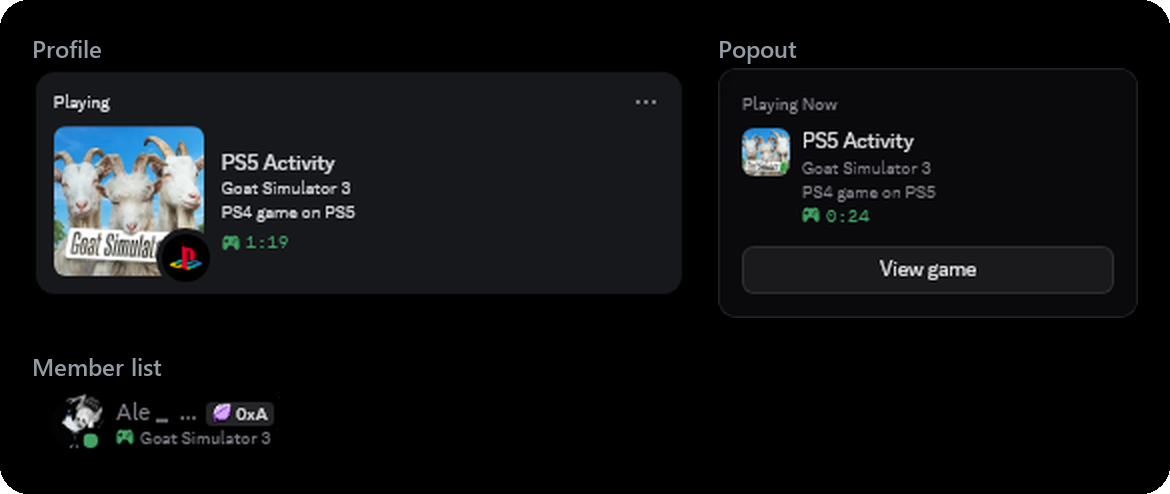
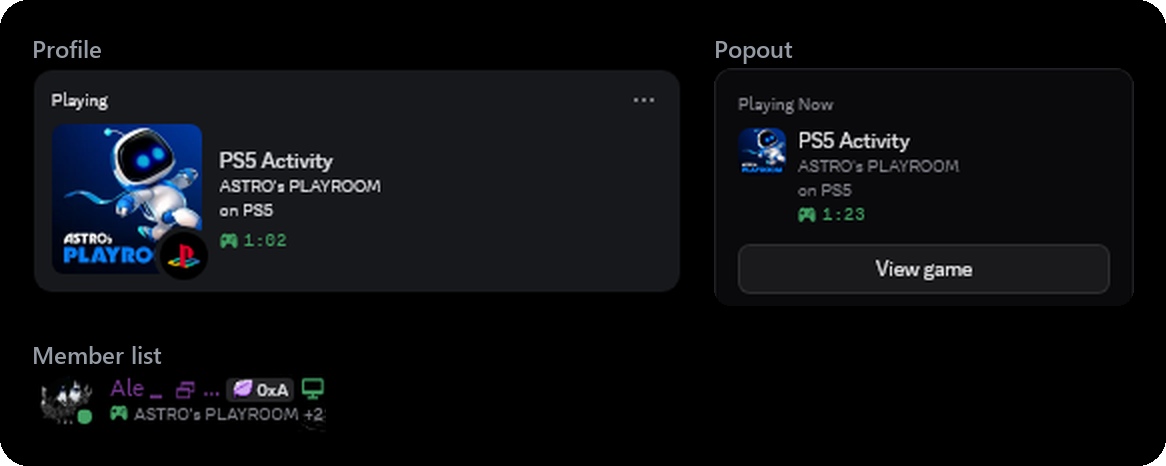
README: show a PS5 game in the Discord screenshots

diff --git a/README.md b/README.md
@@ -16,7 +16,7 @@ to ps5debug-NG (port 744) if the RPC isn't enabled. No etaHEN? The small
 
 On Discord it looks like this:
 
-<p align="center"><img src="assets/discord.png" width="585" alt="Discord showing Goat Simulator 3 on the profile, in the popout with a View game button, and in the member list"></p>
+<p align="center"><img src="assets/discord.png" width="585" alt="Discord showing ASTRO's PLAYROOM on the profile, in the popout with a View game button, and in the member list"></p>
 
 ## Features
 
